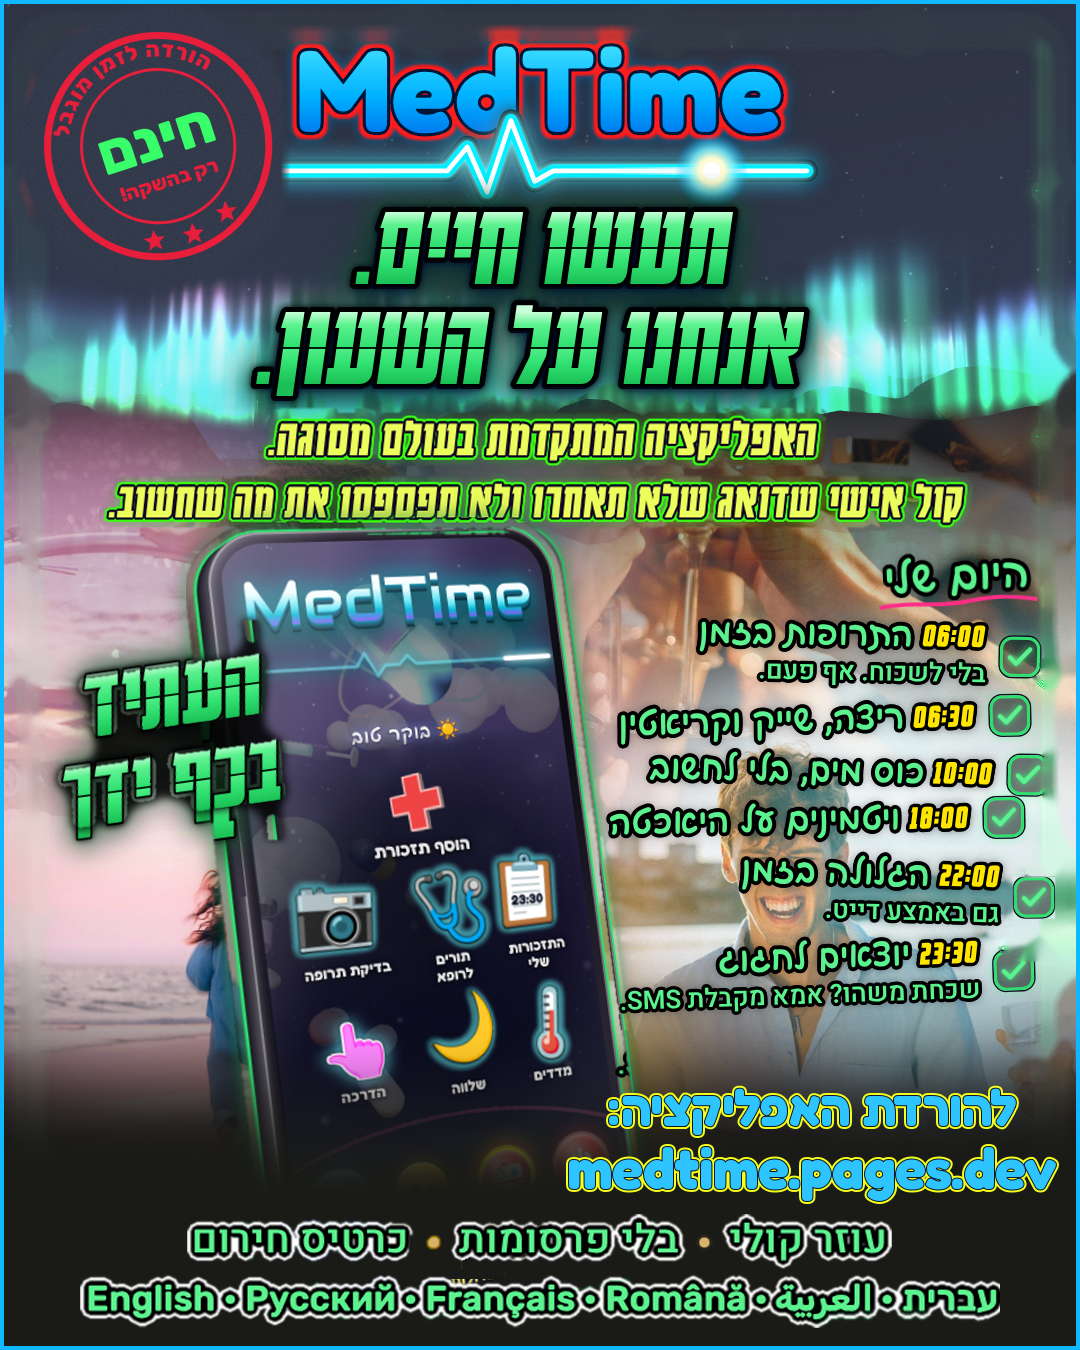
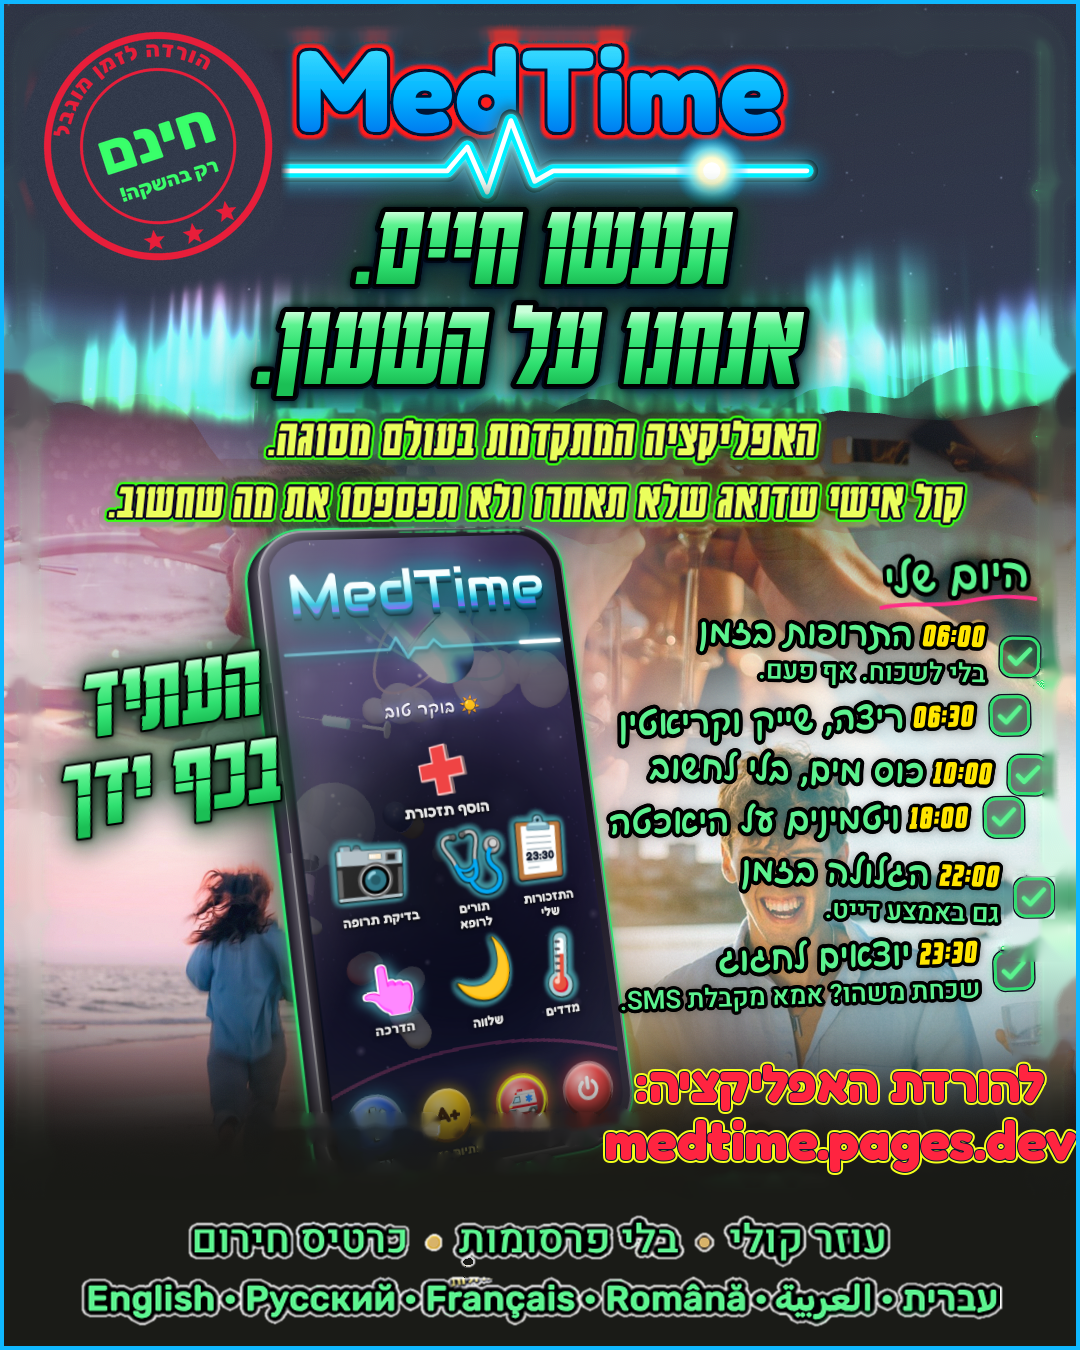
Ad round 12: phone original size, thin bottom ring, red address higher, green 'רק בהשקה' [skip ci]
Claude-Session: https://claude.ai/code/session_01VsxPbo6X9KYMbXyBhgnXSS

Changed region(s): [[0.0306, 0.3733, 1.0, 0.9956], [0.1222, 0.1244, 0.1833, 0.1556]]

diff --git a/media/ads/src/premium_fix10.py b/media/ads/src/premium_fix10.py
@@ -1,0 +1,283 @@
+# Round 12 (Roni 15:04): phone back to its original size, no dark plate behind 'העתיד בכף ידך', thinner
+# white ring round the 2 bottom rows, address filled red and a little higher, 'רק בהשקה!' green like 'חינם'.
+# Round 11 (Roni 14:53-14:54): the two lines under the motto bigger; the phone as big as it fits
+# (grows to the left and down, top-right corner fixed; "העתיד בכף ידך" stays on top); download lines bigger
+# with a fluorescent-yellow edge; the two bottom rows bigger; smooth fade into the dark bottom.
+# Run: premium_fix9.py <fix6 output> <ddc63a0.png> <font dir> <out>
+# Round 9 (Roni 14:36): the round stamp is erased and drawn again, same layout, one flat ink colour,
+# sharp (drawn 4x and scaled down); the address line is bigger with a thinner, sharper edge.
+# Run: premium_fix8.py <fix6 output> <ddc63a0.png> <font dir> <out>
+# Round 8 (Roni 14:29): no download stamp; bottom-right text 'להורדת האפליקציה:' + address in the
+# title's look (rounded bold, blue, red edge), no QR; red stamp without the big glow, thin green line
+# round all its letters and shapes; the dark bottom fades in gradually.
+# Order: premium_fix6.py (round-1 image) -> this script (premium_fix7.py).
+# Round 5 (Roni 14:13): download stamp: green bold 'להורדת התוכנה', address in ONE line,
+# thin green halo; red round stamp letters get a thin green outline. Otherwise = round 3.
+# Round 3 (Roni 14:04): download stamp moves to the top-right, opposite the red stamp,
+# bigger clearer address (2 lines), no tilt; the red stamp also gets a neon glow.
+# Same as round 2 otherwise. Run on the ROUND-1 image (cdddeed), not on round 2.
+# Round 2 on media/ads/MedTime-ad-premium.png (Roni 2026-10-23 ~14:00):
+# - remove the bottom URL pill + QR, remove "6 שפות", move the language row down (more room)
+# - under the red stamp: "להורדת התוכנה" + medtime.pages.dev + the same QR, stamp style, neon
+# Run: python3 premium_fix2.py CUR.png ORIG_ddc63a0.png FONTDIR OUT.png
+import sys, numpy as np, cv2
+from scipy import ndimage as nd
+from PIL import Image, ImageDraw, ImageFont
+cur_p, orig_p, fd, out = sys.argv[1:5]
+img = np.array(Image.open(cur_p).convert('RGB')).astype(np.float32)
+org = np.array(Image.open(orig_p).convert('RGB')).astype(int)
+H, W = img.shape[:2]
+def disk(n):
+    y, x = np.ogrid[-n:n+1, -n:n+1]; return x*x + y*y <= n*n
+def over(base, col, al):
+    return base*(1-al[..., None]) + np.array(col, np.float32)*al[..., None]
+def inpaint(im, m):
+    u = np.clip(im, 0, 255).astype(np.uint8)
+    return cv2.inpaint(u, m.astype(np.uint8)*255, 7, cv2.INPAINT_TELEA).astype(np.float32)
+
+# QR image from the original (unchanged modules)
+qr = org[1194:1290, 706:802].astype(np.float32)
+
+# language row mask (same as fix1) -> letters + white ring
+a = org
+row = np.zeros((H, W), bool); row[1155:1194, 90:1000] = True
+txt = (np.abs(a - [92, 242, 143]).sum(2) < 60) & row
+tl, tn = nd.label(txt, np.ones((3, 3))); ts = nd.sum(txt, tl, range(1, tn+1))
+txt = np.isin(tl, np.nonzero(ts >= 6)[0] + 1)
+six = np.zeros((H, W), bool); six[1150:1198, 840:960] = True   # "6 שפות" (yellow)
+lang = nd.binary_dilation(txt, disk(4)); lang = nd.binary_dilation(lang, disk(3))
+dots = np.zeros((H, W), bool)
+# bullets between languages are gold dots inside the row: keep them
+gold = (np.abs(a - [205, 170, 110]).sum(2) < 90) & row & ~six
+dots = nd.binary_dilation(gold, disk(2))
+keep = (lang | dots) & ~six
+c0_ = img.astype(int)
+ok0 = (c0_.max(2) < 70) | (c0_.min(2) > 200) | (np.abs(c0_ - [92, 242, 143]).sum(2) < 120) | dots
+warm0 = ((c0_[..., 0] - c0_[..., 2]) > 30) & ~dots
+keep = keep & ~nd.binary_dilation(warm0, disk(1))      # leave out the phone's label text under the row
+ys, xs = np.nonzero(keep); bx0, bx1, by0, by1 = xs.min(), xs.max()+1, ys.min(), ys.max()+1
+oi0 = org.astype(int); warmO0 = ((oi0[..., 0] - oi0[..., 2]) > 30) & (np.abs(oi0 - [92, 242, 143]).sum(2) > 120)
+core0 = ((nd.binary_dilation(txt, disk(4)) & ~nd.binary_dilation(warmO0 & ~dots, disk(2))) | dots) & ~six
+core0 &= np.arange(H)[:, None] > (txt.nonzero()[0].min() - 5)
+rowimg = org[by0:by1, bx0:bx1].astype(np.float32)
+rowal = cv2.GaussianBlur((core0 & keep)[by0:by1, bx0:bx1].astype(np.float32), (3, 3), 0)
+# row 1 ("עוזר קולי • בלי פרסומות • כרטיס חירום"): same way (round 7: both rows go lower, closer)
+row1 = np.zeros((H, W), bool); row1[1108:1155, 90:1000] = True
+t1m = (np.abs(a - [92, 242, 143]).sum(2) < 60) & row1
+l1, n1 = nd.label(t1m, np.ones((3, 3))); s1 = nd.sum(t1m, l1, range(1, n1+1))
+t1m = np.isin(l1, np.nonzero(s1 >= 6)[0] + 1)
+lang1 = nd.binary_dilation(nd.binary_dilation(t1m, disk(4)), disk(3))
+gold1 = (np.abs(a - [205, 170, 110]).sum(2) < 90) & row1 & (a[..., 1] < 200)
+gold1 &= nd.binary_dilation(lang1, disk(25)) & ~nd.binary_dilation(lang1, disk(0))
+gl1, gn1 = nd.label(gold1, np.ones((3, 3)))
+dotm = np.zeros_like(gold1)
+for i, sl in enumerate(nd.find_objects(gl1)):   # bullet dots only: small and round
+    if sl is not None and (sl[0].stop - sl[0].start) <= 12 and (sl[1].stop - sl[1].start) <= 12 and (gl1[sl] == i+1).sum() >= 15:
+        dotm[sl] |= gl1[sl] == i + 1
+d1 = nd.binary_dilation(dotm, disk(2))
+keep1 = lang1 | d1
+ys, xs = np.nonzero(keep1); cx0, cx1, cy0, cy1 = xs.min(), xs.max()+1, ys.min(), ys.max()+1
+oi = org.astype(int); warmO = ((oi[..., 0] - oi[..., 2]) > 30) & (np.abs(oi - [92, 242, 143]).sum(2) > 120)
+core1 = (nd.binary_dilation(t1m, disk(4)) & ~nd.binary_dilation(warmO & ~d1, disk(2))) | d1
+cl_, cn_ = nd.label(core1); core1 = np.isin(cl_, np.unique(cl_[(t1m | d1) & core1]))
+core1 &= np.arange(H)[:, None] < (t1m.nonzero()[0].max() + 5)
+row1img = org[cy0:cy1, cx0:cx1].astype(np.float32)
+ylab = (a[..., 0] > 140) & (a[..., 1] > 110) & (a[..., 2] < 110) & ~d1      # phone label text under the row: leave out
+cur_ = img.astype(int)
+okpx = (cur_.max(2) < 70) | (cur_.min(2) > 200) | (np.abs(cur_ - [92, 242, 143]).sum(2) < 120) | d1
+warm1 = ((cur_[..., 0] - cur_[..., 2]) > 30) & ~d1
+keep1 = keep1 & ~nd.binary_dilation(warm1, disk(1))
+row1al = cv2.GaussianBlur((core1 & keep1)[cy0:cy1, cx0:cx1].astype(np.float32), (3, 3), 0)
+
+# frame pixels to protect
+ci = img.astype(int); g, r, b_ = ci[..., 1], ci[..., 0], ci[..., 2]
+fmk = ((g > 150) & (g - r > 40) & (g - b_ > 20)) | ((g > 235) & (r > 120) & (g - r > 30))
+lb, nl = nd.label(fmk, np.ones((3, 3)))
+frame = np.zeros((H, W), bool)   # old frame already removed by premium_fix6.py
+
+# clear 2: old language row letters + "6 שפות" (thin shapes -> inpaint)
+sixm = six & nd.binary_dilation(np.abs(a - [255, 213, 74]).sum(2) < 60, disk(8))
+clr = nd.binary_dilation(lang | dots | sixm | keep1, disk(2))
+img = inpaint(img, clr & ~frame)
+
+# ---- round 11: the two lines under the motto, bigger (same centres) ----
+cu = img.astype(int)
+for (ya, yb) in ((418, 462), (476, 524)):
+    band_ = np.zeros((H, W), bool); band_[ya:yb, 60:1020] = True
+    fillm_ = ((np.abs(cu - [234, 255, 92]).sum(2) < 150) | ((cu[..., 1] > 150) & (cu[..., 1] - cu[..., 2] > 90))) & band_
+    lab_, n_ = nd.label(fillm_, np.ones((3, 3))); sz_ = nd.sum(fillm_, lab_, range(1, n_+1))
+    fillm_ = np.isin(lab_, np.nonzero(sz_ >= 5)[0] + 1)
+    tm_ = nd.binary_closing(nd.binary_dilation(fillm_, disk(5)), disk(3))
+    glw = nd.binary_dilation(fillm_, disk(9)) & (cu[..., 1] - cu[..., 0] > 60) & (cu[..., 1] > 120)
+    tm_ = tm_ | glw
+    ys_, xs_ = np.nonzero(tm_); x0_, x1_, y0_, y1_ = xs_.min(), xs_.max()+1, ys_.min(), ys_.max()+1
+    piece = img[y0_:y1_, x0_:x1_].copy(); pal = cv2.GaussianBlur(tm_[y0_:y1_, x0_:x1_].astype(np.float32), (3, 3), 0)
+    img = inpaint(img, nd.binary_dilation(tm_, disk(2)))
+    sc_ = 1.16 if ya < 470 else 1.12
+    nw_, nh_ = int((x1_-x0_)*sc_), int((y1_-y0_)*sc_)
+    pc = cv2.resize(piece, (nw_, nh_), interpolation=cv2.INTER_CUBIC); pa_ = cv2.resize(pal, (nw_, nh_))
+    cx_, cy_ = (x0_+x1_)//2, (y0_+y1_)//2 + (3 if ya > 470 else -2)
+    xa, ya2 = cx_ - nw_//2, cy_ - nh_//2
+    reg = img[ya2:ya2+nh_, xa:xa+nw_]; img[ya2:ya2+nh_, xa:xa+nw_] = reg*(1-pa_[..., None]) + pc*pa_[..., None]
+
+# ---- round 11: the phone, bigger (top-right corner stays, it grows left and down) ----
+r1 = np.array(Image.open(cur_p).convert('RGB')).astype(int)
+gl_ = (r1[..., 1] > 140) & (r1[..., 1] - r1[..., 0] > 50) & (r1[..., 1] - r1[..., 2] > 20)
+reg_ = np.zeros((H, W), bool); reg_[500:1130, 220:680] = True
+olab, on_ = nd.label(gl_ & reg_, np.ones((3, 3)))
+parts = [i+1 for i, sl in enumerate(nd.find_objects(olab)) if sl is not None and (sl[0].stop - sl[0].start) > 100]   # the phone's outline pieces
+oy, ox = np.nonzero(np.isin(olab, parts))
+pts = list(zip(ox, oy))
+# the lower right edge is hidden in the fade: extend the right edge line down to the bottom of the outline
+rr = [(y_, ox[oy == y_].max()) for y_ in range(880, 1000) if (oy == y_).any()]
+fy = np.polyfit([q[0] for q in rr], [q[1] for q in rr], 1)
+yb = oy.max()
+pts += [(int(np.polyval(fy, yb - 20)), yb - 20), (int(np.polyval(fy, yb - 20)) - 25, yb)]
+hull = cv2.convexHull(np.array(pts, np.int32))
+pm = np.zeros((H, W), np.uint8); cv2.fillPoly(pm, [hull], 1)
+phone = nd.binary_dilation(pm > 0, disk(6))
+ys_, xs_ = np.nonzero(phone); px0, px1, py0, py1 = xs_.min(), xs_.max()+1, ys_.min(), ys_.max()+1
+halo = nd.binary_dilation(phone, disk(12)) & ~phone
+pal = np.clip(phone.astype(np.float32) + halo.astype(np.float32)*0.0, 0, 1)
+pal = cv2.GaussianBlur(pal, (5, 5), 0)
+# "העתיד בכף ידך" (left), to put back on top
+lt = np.zeros((H, W), bool); lt[620:840, 30:310] = True
+ltf = (np.abs(r1 - [64, 231, 124]).sum(2) < 90) & lt
+ltm = nd.binary_dilation(ltf, disk(6)) & lt
+plate = cv2.GaussianBlur((nd.binary_closing(nd.binary_dilation(ltf, disk(8)), disk(22)) & lt).astype(np.float32), (0, 0), 4)
+ltimg = img.copy(); lta = cv2.GaussianBlur(ltm.astype(np.float32), (3, 3), 0)
+# checklist text right of the phone, to keep on top too
+rt = np.zeros((H, W), bool); rt[540:1030, 600:1075] = True
+rtf = rt & ((np.abs(r1 - [234, 255, 92]).sum(2) < 90) | (r1.min(2) > 200) | (np.abs(r1 - [255, 213, 74]).sum(2) < 90) | ((r1[..., 1] > 180) & (r1[..., 1] - r1[..., 0] > 60)))
+rtm = nd.binary_dilation(rtf, disk(3)) & rt
+rta = cv2.GaussianBlur(rtm.astype(np.float32), (3, 3), 0)
+PS = 1.0   # round 12: original size
+ph_img = img[py0:py1, px0:px1].copy(); ph_a = pal[py0:py1, px0:px1]
+nwp, nhp = int((px1-px0)*PS), int((py1-py0)*PS)
+ph2 = cv2.resize(ph_img, (nwp, nhp), interpolation=cv2.INTER_CUBIC); pa2 = cv2.resize(ph_a, (nwp, nhp))
+nx0, ny0 = px1 - nwp, py0
+sh = np.zeros((H, W), np.float32); sh[ny0:ny0+nhp, nx0:nx0+nwp] = pa2
+if PS != 1.0: img = img*(1 - 0.55*np.clip(cv2.GaussianBlur(sh, (0, 0), 10)*1.5, 0, 1))[..., None]      # soft shadow round the bigger phone
+gh = np.clip(cv2.GaussianBlur(sh, (0, 0), 7)*1.4, 0, 1) - sh; gh = np.clip(gh, 0, 1)
+if PS != 1.0: img = img + np.array([40, 230, 110], np.float32)*gh[..., None]*0.35                       # its thin green glow
+reg = img[ny0:ny0+nhp, nx0:nx0+nwp]; img[ny0:ny0+nhp, nx0:nx0+nwp] = reg*(1-pa2[..., None]) + ph2*pa2[..., None]
+img = img*(1 - lta[..., None]) + ltimg*lta[..., None]
+img = img*(1 - rta[..., None]) + ltimg*rta[..., None]
+
+# clear 1 + fade (round 11): one calm dark colour at the bottom, reached smoothly from above
+X0, X1, Y0, Y1 = 4, 1076, 1200, 1346
+dark = np.median(img[1300:1340, 200:880].reshape(-1, 3), axis=0)
+fill = np.ones((Y1-Y0, X1-X0, 3), np.float32)*dark[None, None]
+img[Y0:Y1, X0:X1] = fill
+F0 = 1030
+tt_ = np.clip((np.arange(F0, Y0) - F0) / float(Y0 - F0), 0, 1); wv = (tt_*tt_*(3 - 2*tt_))[:, None, None]
+img[F0:Y0, X0:X1] = img[F0:Y0, X0:X1]*(1 - wv) + dark[None, None]*wv
+
+s = 1.3
+nw, nh = int((bx1-bx0)*s), int((by1-by0)*s)
+ri = cv2.resize(rowimg, (nw, nh), interpolation=cv2.INTER_CUBIC); ra = cv2.resize(rowal, (nw, nh))
+x0 = (W - nw)//2; y0 = 1300 - nh//2
+rg_ = np.zeros((H, W), np.float32); rg_[y0:y0+nh, x0:x0+nw] = ra
+rgo = cv2.dilate((rg_ > .5).astype(np.uint8), cv2.getStructuringElement(cv2.MORPH_ELLIPSE, (5, 5))).astype(np.float32)
+img = over(img, (255, 255, 255), cv2.GaussianBlur(rgo, (3, 3), 0))   # thin white ring (2px)
+reg = img[y0:y0+nh, x0:x0+nw]; img[y0:y0+nh, x0:x0+nw] = reg*(1-ra[..., None]) + ri*ra[..., None]
+s1_ = 1.26
+nw1, nh1 = int((cx1-cx0)*s1_), int((cy1-cy0)*s1_)
+r1i = cv2.resize(row1img, (nw1, nh1), interpolation=cv2.INTER_CUBIC); r1a = cv2.resize(row1al, (nw1, nh1))
+x1_ = (W - nw1)//2; y1_ = y0 - 2 - nh1
+rg_ = np.zeros((H, W), np.float32); rg_[y1_:y1_+nh1, x1_:x1_+nw1] = r1a
+rgo = cv2.dilate((rg_ > .5).astype(np.uint8), cv2.getStructuringElement(cv2.MORPH_ELLIPSE, (5, 5))).astype(np.float32)
+img = over(img, (255, 255, 255), cv2.GaussianBlur(rgo, (3, 3), 0))   # thin white ring (2px)
+reg = img[y1_:y1_+nh1, x1_:x1_+nw1]; img[y1_:y1_+nh1, x1_:x1_+nw1] = reg*(1-r1a[..., None]) + r1i*r1a[..., None]
+
+# leftover phone label specks between the two rows -> background
+ci2 = img.astype(int); zone = np.zeros((H, W), bool); zone[y1_+nh1-14:y0+6, 300:800] = True
+spec = zone & ((ci2[..., 0] - ci2[..., 2]) > 25)
+spec = nd.binary_dilation(spec, disk(2)) & zone & ~((ci2.min(2) > 170))
+img[spec] = fill[np.clip(np.nonzero(spec)[0] - Y0, 0, Y1-Y0-1), np.clip(np.nonzero(spec)[1] - X0, 0, X1-X0-1)]
+
+# ---- download text, bottom right, in the title's look (no QR) ----
+fhe = ImageFont.truetype(fd + '/fredoka-hebrew-700-normal.ttf', 50)   # round 11: bigger
+fla = ImageFont.truetype(fd + '/fredoka-latin-700-normal.ttf', 50)
+flaB = ImageFont.truetype(fd + '/fredoka-latin-700-normal.ttf', 55)   # the address, bigger
+tl1, tl2 = 'להורדת האפליקציה', 'medtime.pages.dev'   # the ':' comes from the Latin font (not in the Hebrew one)
+cxT, yT1, yT2 = 840, 1052, 1106
+def tmask(t, f, y, sw, rtl):
+    L = Image.new('L', (W, H), 0); dd_ = ImageDraw.Draw(L)
+    w_ = dd_.textlength(t, font=f, direction='rtl') if rtl else dd_.textlength(t, font=f)
+    kw = dict(font=f, fill=255, stroke_width=sw, stroke_fill=255)
+    if rtl: kw['direction'] = 'rtl'
+    if rtl:
+        wc = dd_.textlength(':', font=fla); x_ = cxT - (w_ + wc + 2)/2 + wc + 2
+        dd_.text((x_, y), t, **kw)
+        kw2 = dict(font=fla, fill=255, stroke_width=sw, stroke_fill=255); dd_.text((x_ - wc - 2, y), ':', **kw2)
+    else:
+        dd_.text((cxT - w_/2, y), t, **kw)
+    return np.array(L).astype(np.float32)/255
+lines_ = [(tl1, fhe, yT1, True), (tl2, flaB, yT2, False)]
+red_o = np.maximum.reduce([tmask(*l_[:3], 3, l_[3]) for l_ in lines_])
+dark_o = np.maximum.reduce([tmask(*l_[:3], 1, l_[3]) for l_ in lines_])
+body = np.maximum.reduce([tmask(*l_[:3], 0, l_[3]) for l_ in lines_])
+img = over(img, (244, 255, 26), red_o)   # round 11: fluorescent yellow edge
+img = over(img, (10, 22, 52), dark_o)
+grad = np.ones((H, W, 3), np.float32)*np.array([255, 36, 64], np.float32)   # round 12: red fill
+img = img*(1 - body[..., None]) + grad*body[..., None]
+
+# ---- round stamp: erase the old one, draw a new one in the same layout, flat ink colour, sharp ----
+yy_s, xx_s = np.mgrid[0:H, 0:W]
+SC, SY = 158, 146
+dist_s = np.hypot(xx_s - SC, yy_s - SY)
+era = (dist_s < 150) & (xx_s > 3) & (yy_s > 3) & (xx_s < 288)
+ci_ = img.astype(int)
+ann = (dist_s >= 150) & (dist_s < 175) & (xx_s > 3) & (yy_s > 3) & (ci_.max(2) < 110) & (np.abs(ci_[..., 0] - ci_[..., 2]) < 50)
+bgc = np.median(img[ann], axis=0)                      # the calm dark background colour around the stamp
+noise = np.random.default_rng(5).normal(0, 2.0, (H, W, 1)).astype(np.float32)
+flat = np.ones_like(img)*bgc[None, None] + noise
+wE = (np.clip((150 - dist_s) / 14.0, 0, 1) * np.clip((290 - xx_s) / 10.0, 0, 1))[..., None]   # soft edge
+img = img*(1 - wE) + flat*wE
+K = 4; R0 = 140; SZ = 2*R0*K
+st = Image.new('L', (SZ, SZ), 0); ds = ImageDraw.Draw(st); c0 = SZ/2
+def circ(r, w): ds.ellipse((c0 - r*K, c0 - r*K, c0 + r*K, c0 + r*K), outline=255, width=int(w*K))
+circ(114, 7); circ(78, 3)
+fA = ImageFont.truetype(fd + '/rubik-hebrew-800-normal.ttf', 22*K)
+arc = 'הורדה לזמן מוגבל'
+ws = [ds.textlength(ch, font=fA) for ch in arc]; tot = sum(ws) + 1.5*K*(len(arc) - 1)
+rA = 94*K; ang0 = -108                                       # centre of the arc text (upper left, like before)
+a_ = np.radians(ang0) + (tot/2)/rA                            # Hebrew: first letter on the right end
+for ch, w_ in zip(arc, ws):
+    am = a_ - (w_/2)/rA
+    if ch != ' ':
+        g = Image.new('L', (int(w_ + 8*K), int(32*K)), 0); ImageDraw.Draw(g).text((4*K, 0), ch, font=fA, fill=255)
+        g = g.rotate(-(np.degrees(am) + 90), resample=Image.BICUBIC, expand=True)
+        px, py = c0 + rA*np.cos(am), c0 + rA*np.sin(am)
+        st.paste(255, (int(px - g.width/2), int(py - g.height/2)), g)
+    a_ -= (w_ + 1.5*K)/rA
+def star(cx_, cy_, r_):
+    pts = [(cx_ + (r_ if i % 2 == 0 else r_*.45)*np.cos(np.radians(-90 + 36*i)), cy_ + (r_ if i % 2 == 0 else r_*.45)*np.sin(np.radians(-90 + 36*i))) for i in range(10)]
+    ds.polygon(pts, fill=255)
+for ad in (52, 76, 100):
+    star(c0 + 95*K*np.cos(np.radians(ad)), c0 + 95*K*np.sin(np.radians(ad)), 11*K)
+cen = Image.new('L', (SZ, SZ), 0); dc = ImageDraw.Draw(cen)
+fB = ImageFont.truetype(fd + '/rubik-hebrew-800-normal.ttf', 58*K); fC = ImageFont.truetype(fd + '/rubik-hebrew-800-normal.ttf', 20*K)
+fL = ImageFont.truetype(fd + '/rubik-latin-800-normal.ttf', 20*K)
+cenG = Image.new('L', (SZ, SZ), 0); dg = ImageDraw.Draw(cenG)   # round 10: "חינם" in fluorescent green
+for t_, f_, y_ in (('חינם', fB, -42), ('רק בהשקה', fC, 24)):
+    w_ = dc.textlength(t_, font=f_, direction='rtl')
+    extra = dc.textlength('!', font=fL) if f_ is fC else 0
+    x_ = c0 - (w_ + extra)/2 + extra
+    dg.text((x_, c0 + y_*K), t_, font=f_, fill=255, direction='rtl')
+    if extra: dg.text((x_ - extra, c0 + y_*K), '!', font=fL, fill=255)
+cen = cen.rotate(10, resample=Image.BICUBIC, center=(c0, c0))
+cenG = cenG.rotate(10, resample=Image.BICUBIC, center=(c0, c0)).rotate(8, resample=Image.BICUBIC, center=(c0, c0)).resize((2*R0, 2*R0), Image.LANCZOS)
+st = Image.fromarray(np.maximum(np.array(st), np.array(cen)))
+st = st.rotate(8, resample=Image.BICUBIC, center=(c0, c0))   # the whole stamp a little tilted
+st = st.resize((2*R0, 2*R0), Image.LANCZOS)
+sa = np.zeros((H, W), np.float32); sa[SY-R0:SY+R0, SC-R0:SC+R0] = np.array(st).astype(np.float32)/255
+INK = (232, 30, 58)
+img = over(img, INK, sa)
+ga = np.zeros((H, W), np.float32); ga[SY-R0:SY+R0, SC-R0:SC+R0] = np.array(cenG).astype(np.float32)/255
+img = over(img, (57, 255, 106), ga)
+im_ = Image.fromarray(np.clip(img, 0, 255).astype(np.uint8))
+ImageDraw.Draw(im_).rectangle((0, 0, W-1, H-1), outline=(15, 184, 255), width=4)   # blue edge frame
+im_.save(out)
+print('ok', x0, y0, nw, nh)

diff --git a/handoff/SYNC-LOG.md b/handoff/SYNC-LOG.md
@@ -7,6 +7,9 @@
 - מה: M-320..M-324 (פירוט ב-CHANGES.md): ברכה וצלב למעלה; פריסה שווה (3 בשורה, שורה קצרה ממורכזת); תור רופא: תווית קצרה על הסמל; חיסכון בסוללה (saver.js + WebView onPause/onResume + isPowerSave/batteryLevel/isCharging ב-NativeBridge); טיפ הגדרות בסוף ההגדרה הראשונית.
 - קומיטים: cc5f4ca (דף, עדכון מהיר), 36dcecb (Java, בנייה 223). להחזרה: git revert 36dcecb cc5f4ca.
 
+## 2026-10-23 ~15:20 · חשבון ראשי · אותה שיחה
+- מה: מודעה סבב 12 (premium_fix10.py, מחליף את fix9): הטלפון בגודל המקורי; בלי הרקע הכהה מאחורי "העתיד בכף ידך"; שתי השורות התחתונות נלקחות מהמקור ומקבלות טבעת לבנה דקה (2px); כתובת ההורדה במילוי אדום #ff2440 עם קו צהוב, קצת למעלה; "רק בהשקה!" בירוק כמו "חינם". סדר: fix6 ואז fix10.
+
 ## 2026-10-23 ~15:10 · חשבון ראשי · אותה שיחה
 - מה: מודעה סבב 11 (premium_fix9.py, מחליף את fix8): שתי השורות מתחת למוטו גדולות יותר (×1.16/×1.12); הטלפון גדול ×1.13 (פינה ימנית עליונה קבועה, גדל שמאלה ולמטה, צל + הילה ירוקה דקה, "העתיד בכף ידך" ורשימת "היום שלי" נשארים מעליו); שורות ההורדה גדולות יותר (50/57px) עם קו צהוב זרחני; שתי השורות התחתונות גדולות יותר (×1.26/×1.3); מעבר רך (smoothstep) מ-y=1030 לצבע כהה אחיד בתחתית. סדר: fix6 ואז fix9. להחזרה: התמונה מהקומיט הקודם.
 
